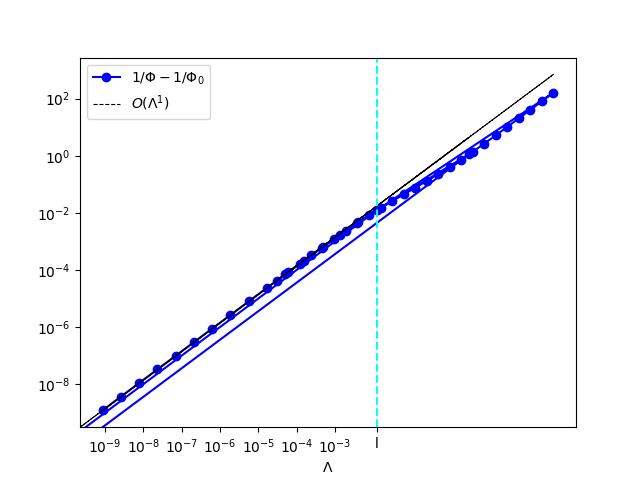
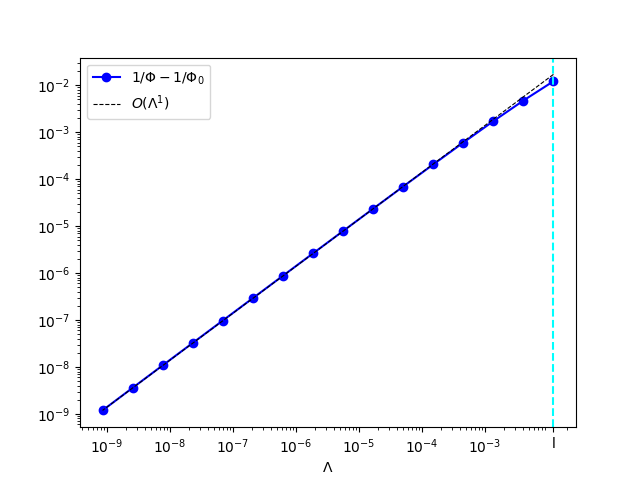
update

diff --git a/Ex1_square_top_snowflake_adaptive/read_csv.py b/Ex1_square_top_snowflake_adaptive/read_csv.py
@@ -18,8 +18,8 @@ with open(f'results/Phi_Lam_{nn}.csv') as f:
 LL=np.array(columns['Lambda'])
 Phi=np.array(columns['flux'])
 Phi0=Phi[0]
-
 # R1: 0<Lambda <l
+columns = defaultdict(list)
 with open(f'results/Phi_Lam_{nn}_R1.csv') as f:
     reader = csv.DictReader(f) # read rows into a dictionary format
     for row in reader: # read a row as {column1: value1, column2: value2,...}
@@ -42,8 +42,10 @@ plt.legend(['$1/\Phi-1/\Phi_0$', '$O(\Lambda^{1})$'])
 plt.xlabel('$\Lambda$')
 plt.savefig(f"figures/Phi_Lam_{nn}_R1.png")
 PETSc.Sys.Print(f"plot for 0<Lambda<l saved to figures/Phi_Lam_{nn}_R1.png ")
+plt.close()
 
 # R2: l<Lambda <Lp
+columns = defaultdict(list)
 with open(f'results/Phi_Lam_{nn}_R2.csv') as f:
     reader = csv.DictReader(f) # read rows into a dictionary format
     for row in reader: # read a row as {column1: value1, column2: value2,...}
@@ -67,8 +69,10 @@ plt.legend(['$1/\Phi-1/\Phi_0$', '$O(\Lambda^{1/dim_frac})$'])
 plt.xlabel('$\Lambda$')
 plt.savefig(f"figures/Phi_Lam_{nn}_R2.png")
 PETSc.Sys.Print(f"Plot for l<Lambda<L_p saved to figures/Phi_Lam_{nn}_R2.png ")
+plt.close()
 
 # R3:Lp<Lambda
+columns = defaultdict(list)
 with open(f'results/Phi_Lam_{nn}_R3.csv') as f:
     reader = csv.DictReader(f) # read rows into a dictionary format
     for row in reader: # read a row as {column1: value1, column2: value2,...}
@@ -91,3 +95,4 @@ plt.legend(['$1/\Phi-1/\Phi_0$', '$O(\Lambda^{1})$'])
 plt.xlabel('$\Lambda$')
 plt.savefig(f"figures/Phi_Lam_{nn}_R3.png")
 PETSc.Sys.Print(f"Plot for Lp<Lambda<infty saved to figures/Phi_Lam_{nn}_R3.png ")
+plt.close()
